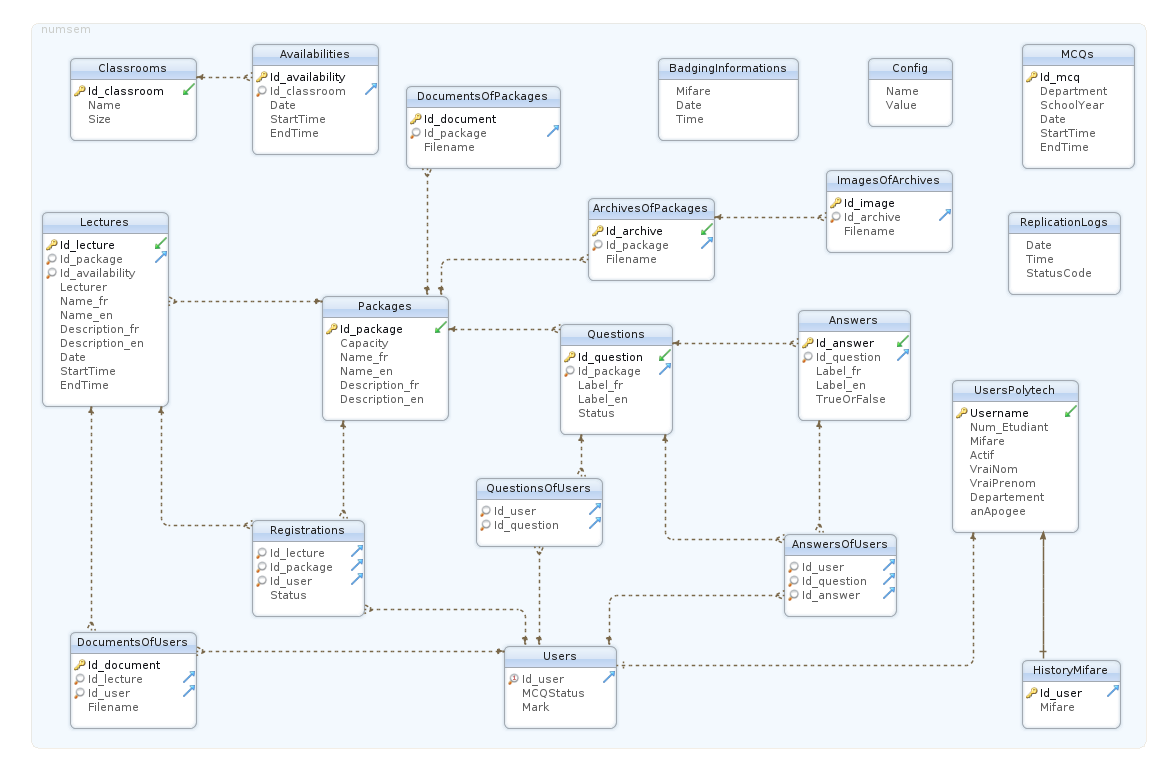
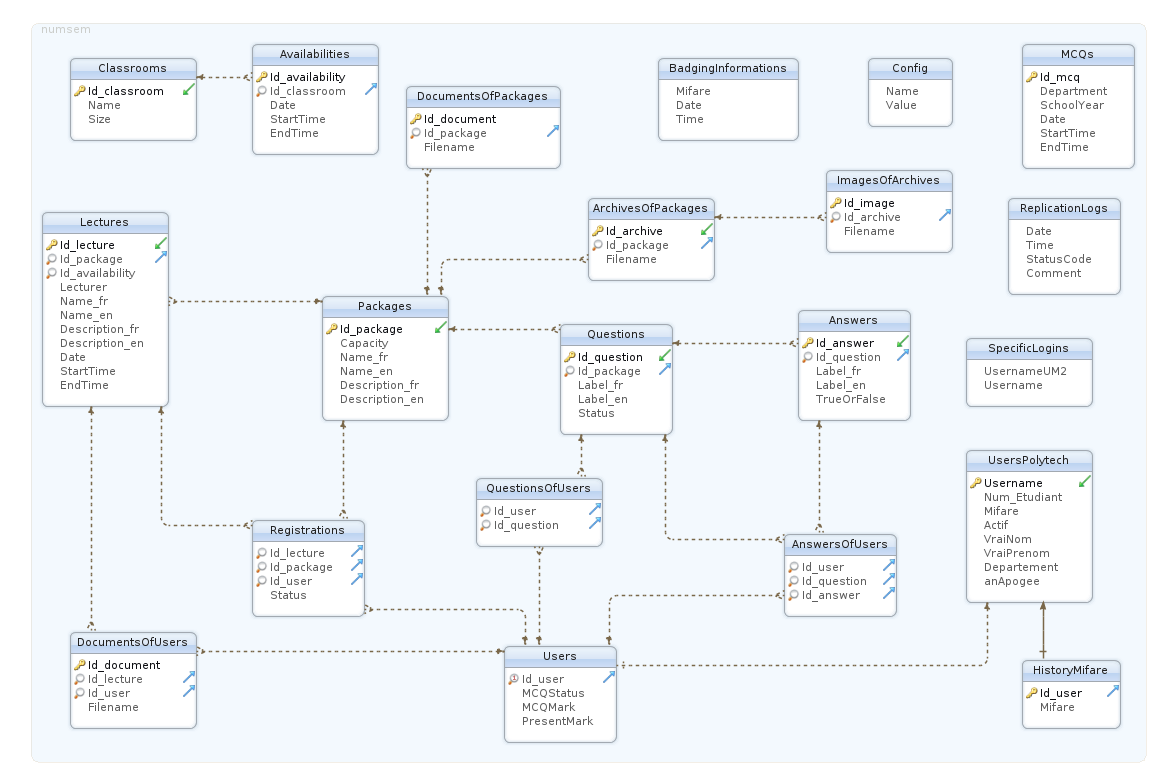
Séparation des notes

diff --git a/www/apps/frontend/modules/mcq/McqController.class.php b/www/apps/frontend/modules/mcq/McqController.class.php
@@ -54,9 +54,7 @@
                 $managerUser->updateStatus($logon, 'Taken');
                 $this->app()->user()->getAttribute('vbmifareStudent')->setMCQStatus('Taken');
 
-                $mark = $this->computeMark($logon, $questions, $answers, $answersOfUser);
-                $managerUser->updateMark($logon, $mark);
-                $this->app()->user()->getAttribute('vbmifareStudent')->setMark($mark);
+                $this->computeMarkAndUpdateMark($logon, $questions, $answers, $answersOfUser);
 
                 // Redirection
                 $this->app()->user()->setFlashInfo($this->m_TEXT['Flash_MCQTaken']);
@@ -222,11 +220,9 @@
             return $answers;
         }
 
-        public function computeMark($logon, $questions, $answers, $answersOfUser)
-        {
-            $mark = 0;
-    
-            $presentMark = $this->m_managers->getManagerOf('config')->get('presentMark');
+        public function computeMarkAndUpdateMark($logon, $questions, $answers, $answersOfUser)
+        {    
+            $presentMark = 0;
 
             $managerRegistration = $this->m_managers->getManagerOf('registration');
             $registrations = $managerRegistration->getRegistrationsFromUser($logon);
@@ -234,10 +230,10 @@
             foreach($registrations as $reg)
             {
                 if($reg->getStatus() == 'Present')
-                    $mark += $presentMark / count($registrations);
+                    $presentMark += 20 / count($registrations);
             }
 
-            $QCMMark = 20 - $presentMark;
+            $QCMMark = 0;
 
             // Compute good and bad answers count per question
             $goodAndBasAnswersCount = array();
@@ -273,17 +269,20 @@
                             if($answerOfUser->getIdAnswer() == $answer->getId())
                             {
                                 if($answer->getTrueOrFalse() == 'T')
-                                    $mark += $QCMMark / (count($questions) * $goodAndBasAnswersCount[$i][0]);
+                                    $QCMMark += 20 / (count($questions) * $goodAndBasAnswersCount[$i][0]);
         
                                 else
-                                    $mark -= $QCMMark / (count($questions) * $goodAndBasAnswersCount[$i][1]);
+                                    $QCMMark -= 20 / (count($questions) * $goodAndBasAnswersCount[$i][1]);
                             }
                         }
                     }
                 }
             }
 
-            return $mark;
+            $managerUser = $this->m_managers->getManagerOf('user');
+            $managerUser->updateMarks($logon, $QCMMark, $presentMark);
+            $this->app()->user()->getAttribute('vbmifareStudent')->setMCQMark($QCMMark);
+            $this->app()->user()->getAttribute('vbmifareStudent')->setPresentMark($presentMark);
         }
     }
 ?>

diff --git a/www/lib/models/UserManager.class.php b/www/lib/models/UserManager.class.php
@@ -16,7 +16,8 @@
 
                 $student = new Student;
                 $student->setUsername($data['Id_user']);
-                $student->setMark($data['Mark']);
+                $student->setMCQMark($data['MCQMark']);
+                $student->setPresentMark($data['PresentMark']);
                 $student->setMCQStatus($data['MCQStatus']);
 
                 $student->setName($dataNext['VraiPrenom']);
@@ -100,16 +101,18 @@
 
             if(!$data)
             {
-                $req = $this->m_dao->prepare('INSERT INTO Users(Id_user, MCQStatus, Mark) VALUES(?, ?, 0)');
+                $req = $this->m_dao->prepare('INSERT INTO Users(Id_user, MCQStatus, MCQMark, PresentMark) VALUES(?, ?, 0, 0)');
                 $req->execute(array($student->getUsername(), $status));
                 $student->setMCQStatus($status);
-                $student->setMark(0);
+                $student->setMCQMark(0);
+                $student->setPresentMark(0);
             }
             
             else
             {
                 $student->setMCQStatus($data['MCQStatus']);
-                $student->setMark($data['Mark']);
+                $student->setMCQMark($data['MCQMark']);
+                $student->setPresentMark($data['PresentMark']);
             }
         }
 
@@ -121,10 +124,10 @@
             $req->execute(array($status, $logon));
         }
 
-        public function updateMark($logon, $mark)
+        public function updateMarks($logon, $mcqMark, $presentMark)
         {
-            $req = $this->m_dao->prepare('UPDATE Users SET Mark = ? WHERE Id_user = ?');
-            $req->execute(array($mark, $logon));
+            $req = $this->m_dao->prepare('UPDATE Users SET MCQMark = ?, PresentMark = ? WHERE Id_user = ?');
+            $req->execute(array($mcqMark, $presentMark, $logon));
         }
 
         public function retrieveMifare($logon)

diff --git a/www/lib/models/Student.class.php b/www/lib/models/Student.class.php
@@ -11,7 +11,8 @@
         private $m_studentNumber;
 
         private $m_mcqStatus;
-        private $m_mark;
+        private $m_mcqMark;
+        private $m_presentMark;
 
         public function setUsername($username)
         {
@@ -93,14 +94,24 @@
             return $this->m_studentNumber;
         }
 
-        public function setMark($mark)
+        public function setMCQMark($mcqMark)
         {
-            $this->m_mark = $mark;
+            $this->m_mcqMark = $mcqMark;
         }
 
-        public function getMark()
+        public function getMCQMark()
         {
-            return $this->m_mark;
+            return $this->m_mcqMark;
+        }
+
+        public function setPresentMark($presentMark)
+        {
+            $this->m_presentMark = $presentMark;
+        }
+
+        public function getPresentMark()
+        {
+            return $this->m_presentMark;
         }
 
         public function setMCQStatus($mcqStatus)

diff --git a/www/apps/backend/modules/retrieval/RetrievalController.class.php b/www/apps/backend/modules/retrieval/RetrievalController.class.php
@@ -11,7 +11,7 @@
             // Hack to don't display the layout :)
 			$this->page()->setIsAjaxPage(TRUE);
 
-            $csv = '// "Department","SchoolYear","Username","Mark","Comment" ' . PHP_EOL;
+            $csv = '"Département","Année d\'étude","Username","Note de présence","Note QCM","Commentaire"' . PHP_EOL;
 
             $managerUser = $this->m_managers->getManagerOf('user');
             $students = $managerUser->get();
@@ -28,7 +28,8 @@
                                   $shoolYear . '","' . 
                                   $student->getStudentNumber() . '","' . 
                                   $student->getUsername() . '","' . 
-                                  $student->getMark() . '"';
+                                  $student->getPresentMark() . '","' . 
+                                  $student->getMCQMark() . '"';
 
                     $csv .= (($status == 'Taken') ? ',""' : ',"Absent"');
 
